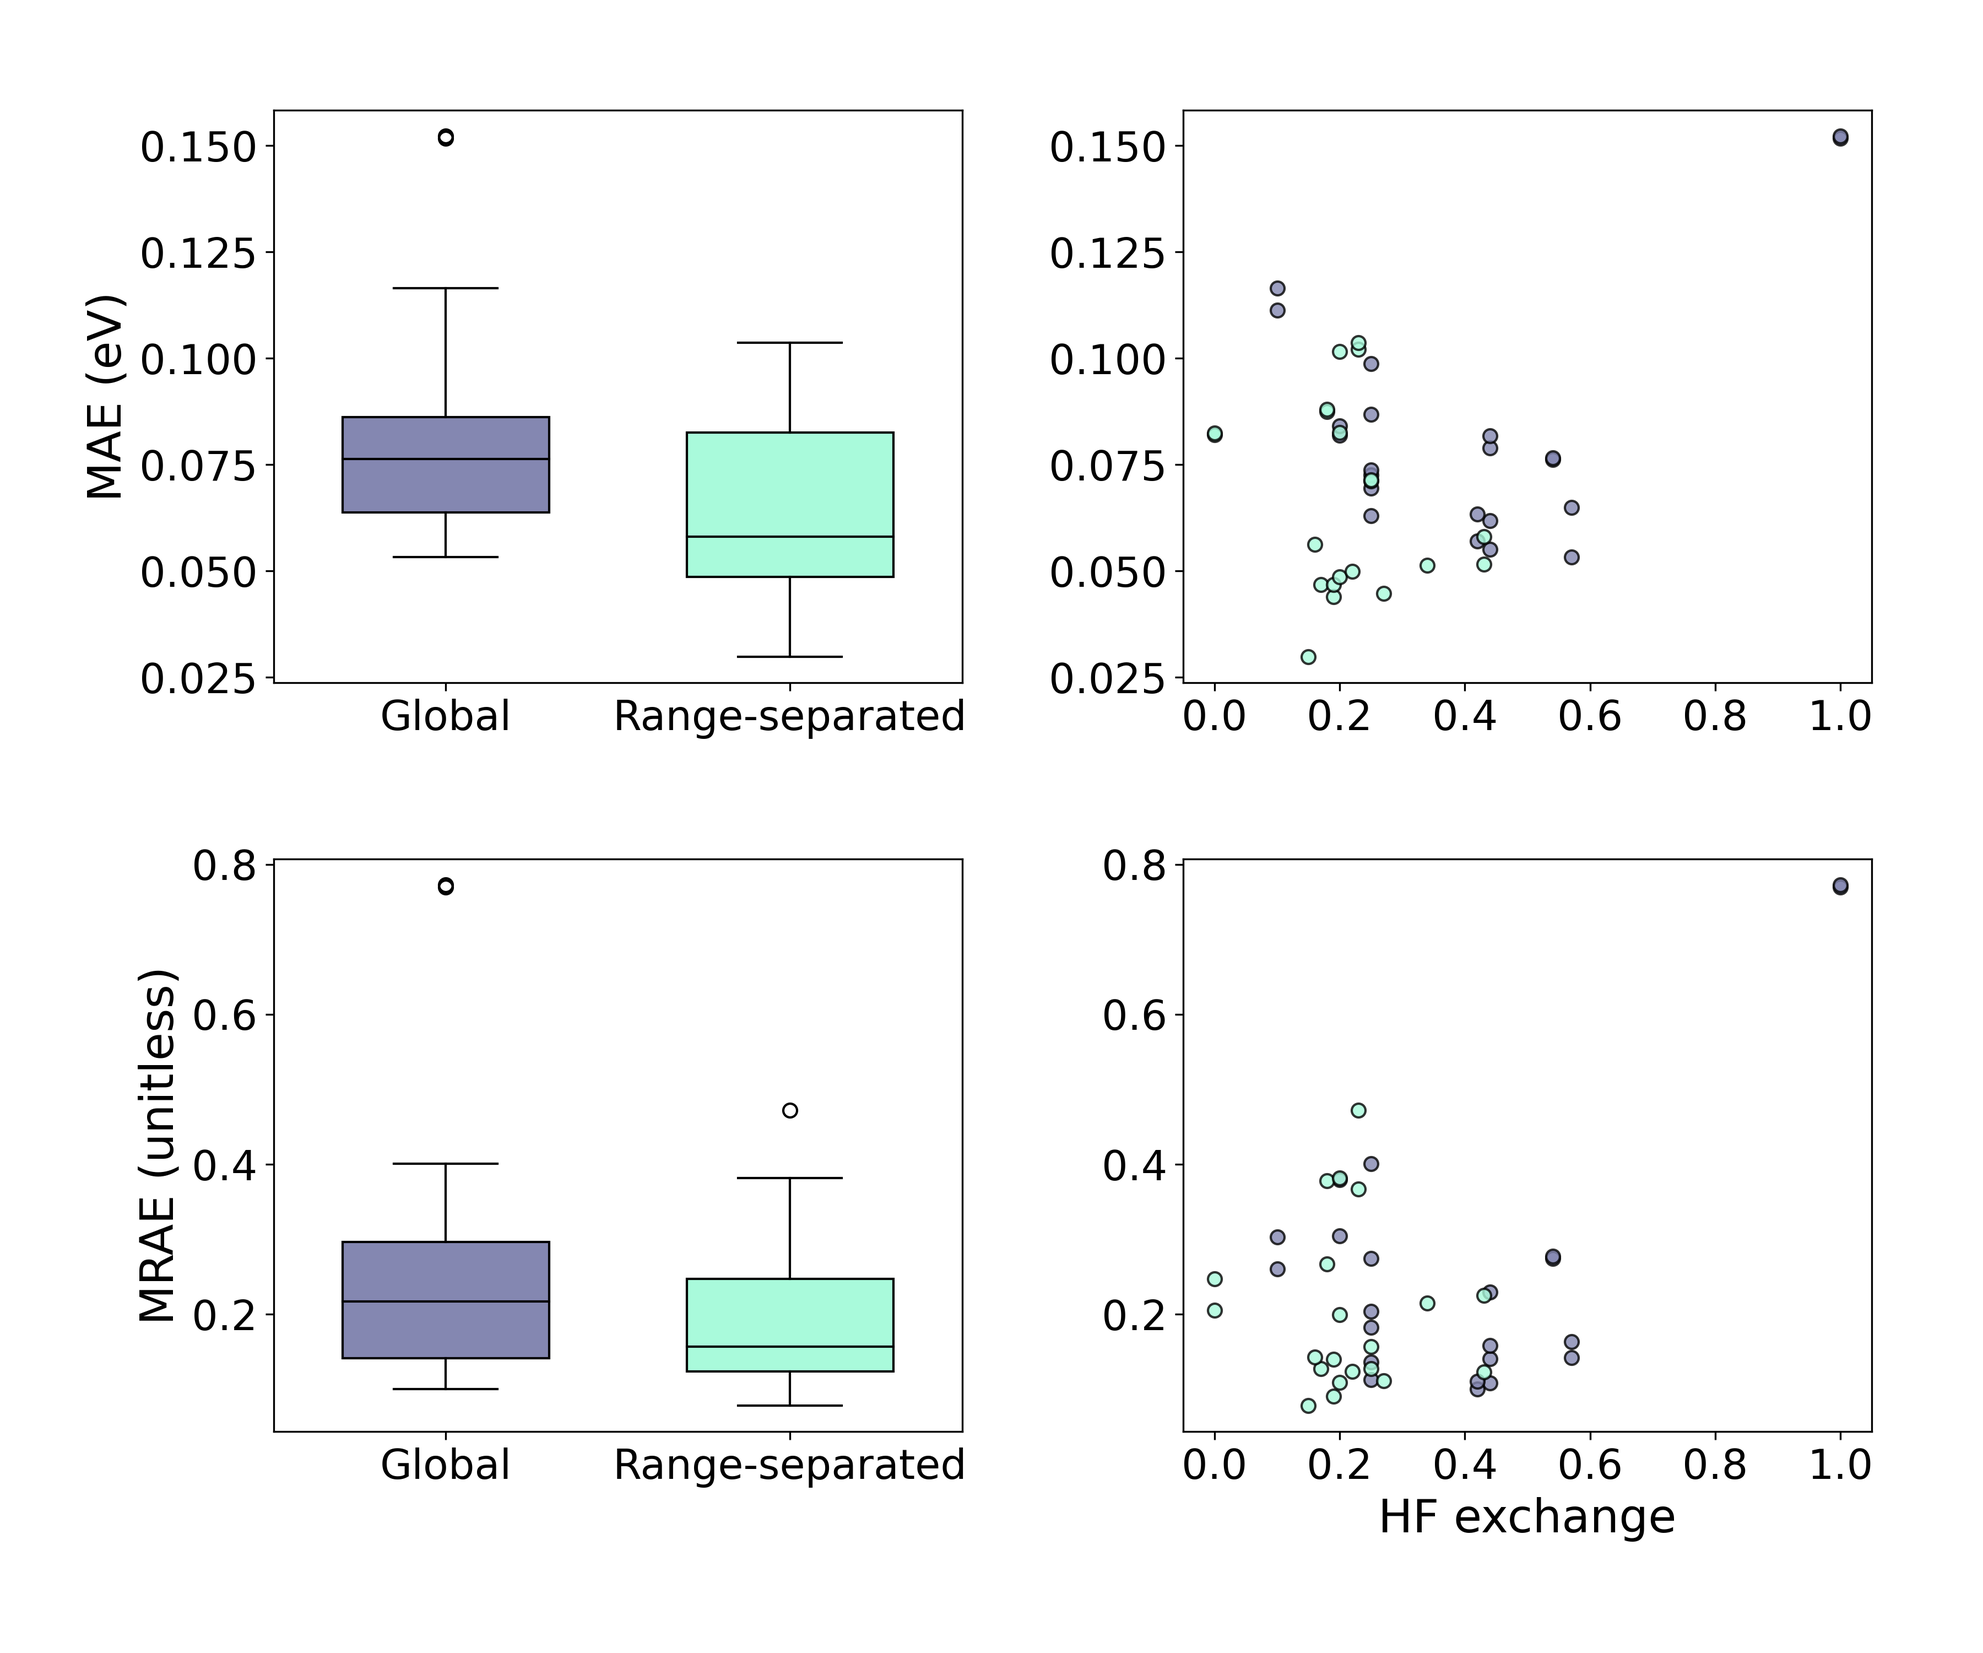
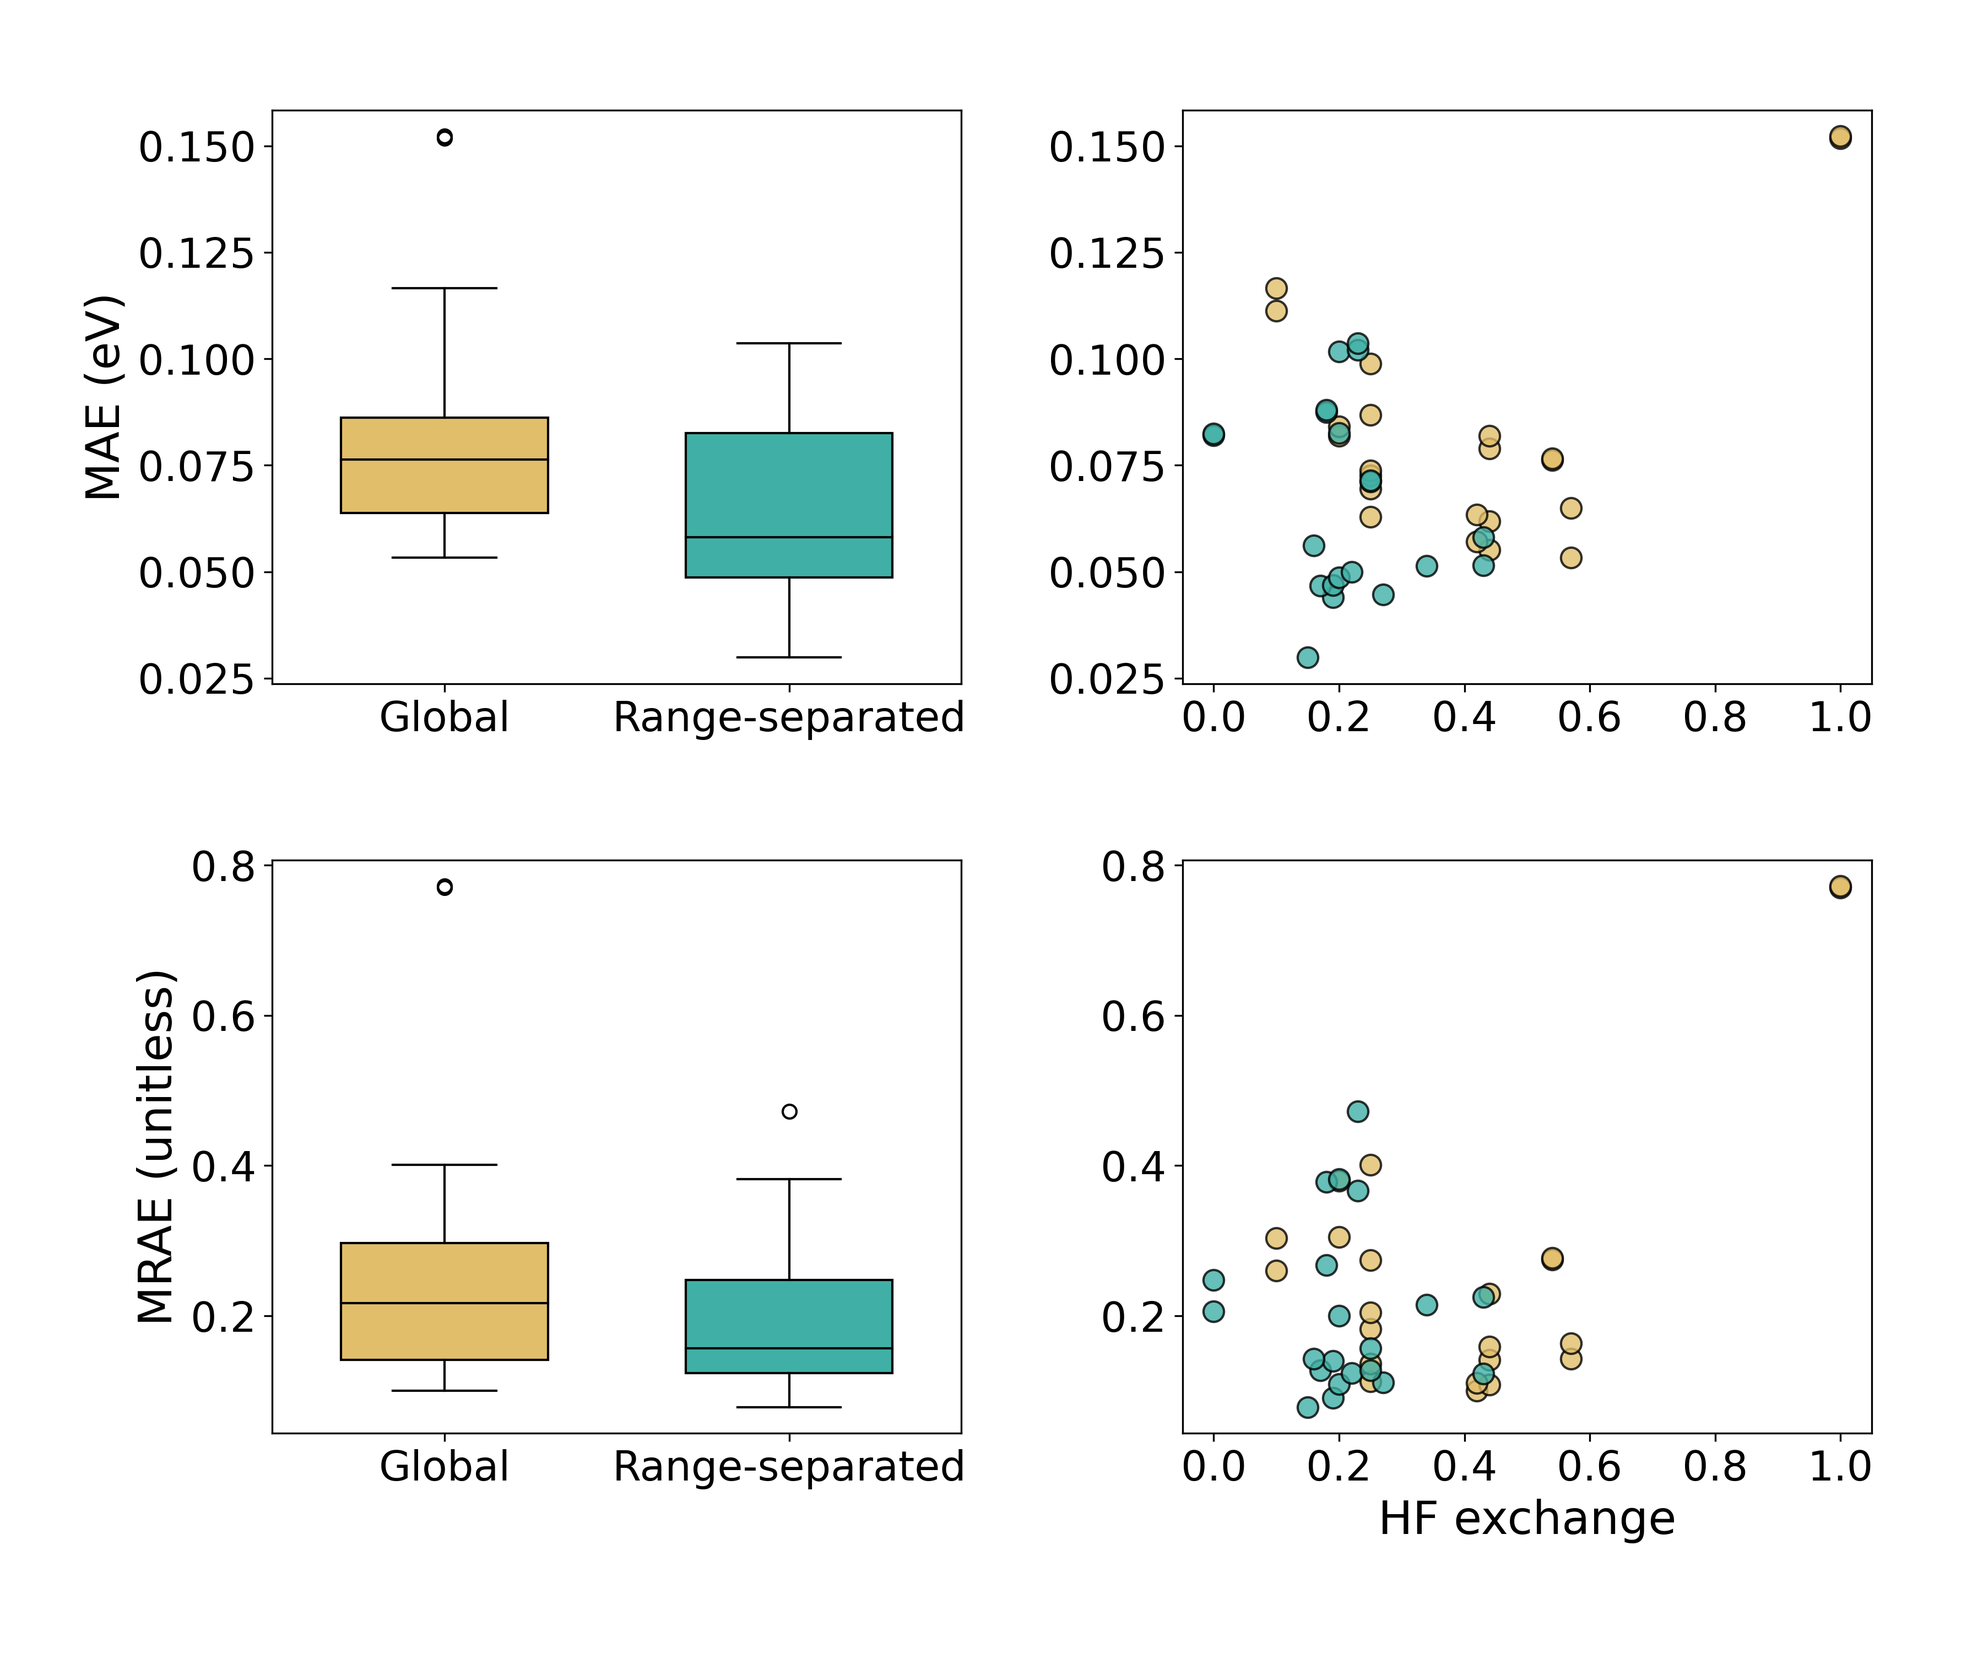
Mostly figure changes

diff --git a/src/analyze/error_by_reaction.py b/src/analyze/error_by_reaction.py
@@ -1,0 +1,102 @@
+import os
+import statistics
+
+abs_file = "../data/results/new/abserrs_vacuum.csv"
+rel_file = "../data/results/new/abserrs_rel_vacuum.csv"
+
+methods = {"GGA": ["PBE", "PBE-D3(BJ)", "BLYP", "BLYP-D3(BJ)", "B97-D", "B97-D3", "mPW91", "mPW91-D3(BJ)", "VV10", "rVV10",],
+           "meta-GGA": ["M06-L", "M06-L-D3(0)", "SCAN", "SCAN-D3(BJ)", "TPSS", "TPSS-D3(BJ)", "MN12-L", ("MN12-L-D3(BJ)"), "B97M-rV",],
+           "hybrid GGA": ["PBE0", "PBE0-D3(BJ)", "LRC-wPBE", "LRC-wPBE-D3(BJ)", "LRC-wPBEh", "LRC-wPBEh-D3(BJ)", "B3LYP", "B3LYP-D3(BJ)", "CAM-B3LYP", "CAM-B3LYP-D3(0)", "rCAM-B3LYP", "rCAM-B3LYP-D3(0)", "mPW1PW91", "mPW1PW91-D3(BJ)", "HSE-HJS", "HSE-HJS-D3(BJ)", "wB97X", "wB97XD", "wB97XD3", "wB97XV",],
+           "hybrid meta-GGA": ["M06-2X", "M06-2X-D3(0)", "wM06-D3", "M06-SX", "M06-SX-D3(BJ)", "M06-HF", "M06-HF-D3(0)", "M08-SO", "M08-SO-D3(0)", "M11", "M11-D3(0)", "revM11", "revM11-D3(0)", "MN15", "MN15-D3(0)", "BMK", "BMK-D3(BJ)", "TPSSh", "TPSSh-D3(BJ)", "SCAN0", "SCAN0-D3(BJ)", "mPWB1K", "mPWB1K-D3(BJ)", "wB97M-V"]}
+
+with open(abs_file, 'r') as file:
+    file_contents = file.readlines()
+    reactions = file_contents[0].split(",")[1:-1]
+
+    data = dict()
+
+    for reaction in reactions:
+        data[reaction] = {"all": list()}
+        for funct_class in methods:
+            data[reaction][funct_class] = list()
+
+    for line in file_contents[1:]:
+        line_contents = line.split(",")
+        functional = line_contents[0]
+
+        if functional in ["r2SCAN3c"]:
+            continue
+
+        this_class = None
+        for funct_class, functs in methods.items():
+            if functional in functs:
+                this_class = funct_class
+                break
+        if this_class is None:
+            print("CANNOT FIND FUNCTIONAL CLASS", functional)
+            continue
+
+        errors = list()
+        for x in line_contents[1:-1]:
+            try:
+                errors.append(float(x))
+            except:
+                errors.append(None)
+
+        for ii, reaction in enumerate(reactions):
+            error = errors[ii]
+            data[reaction]["all"].append(error)
+            data[reaction][this_class].append(error)
+
+    for reaction, d in data.items():
+        if None in d["all"]:
+            continue
+
+        print(f"{reaction} & {statistics.mean(d['GGA']):.3f} & {statistics.mean(d['meta-GGA']):.3f} & {statistics.mean(d['hybrid GGA']):.3f} & {statistics.mean(d['hybrid meta-GGA']):.3f} & {statistics.mean(d['all']):.3f}\\\\\n\\hline")
+
+print("\n\n\n")
+
+with open(rel_file, 'r') as file:
+    file_contents = file.readlines()
+    reactions = file_contents[0].split(",")[1:-1]
+
+    data = dict()
+
+    for reaction in reactions:
+        data[reaction] = {"all": list()}
+        for funct_class in methods:
+            data[reaction][funct_class] = list()
+
+    for line in file_contents[1:]:
+        line_contents = line.split(",")
+        functional = line_contents[0]
+
+        if functional in ["r2SCAN3c"]:
+            continue
+
+        this_class = None
+        for funct_class, functs in methods.items():
+            if functional in functs:
+                this_class = funct_class
+                break
+        if this_class is None:
+            print("CANNOT FIND FUNCTIONAL CLASS", functional)
+            continue
+
+        errors = list()
+        for x in line_contents[1:-1]:
+            try:
+                errors.append(float(x))
+            except:
+                errors.append(None)
+
+        for ii, reaction in enumerate(reactions):
+            error = errors[ii]
+            data[reaction]["all"].append(error)
+            data[reaction][this_class].append(error)
+
+    for reaction, d in data.items():
+        if None in d["all"]:
+            continue
+
+        print(f"{reaction} & {statistics.mean(d['GGA']):.3f} & {statistics.mean(d['meta-GGA']):.3f} & {statistics.mean(d['hybrid GGA']):.3f} & {statistics.mean(d['hybrid meta-GGA']):.3f} & {statistics.mean(d['all']):.3f}\\\\\n\\hline")

diff --git a/src/figures/scatter_eq_axes.py b/src/figures/scatter_eq_axes.py
@@ -6,6 +6,7 @@ import statistics
 import numpy as np
 
 import matplotlib.pyplot as plt
+from matplotlib.ticker import FormatStrFormatter
 
 SMALL_SIZE = 16
 MEDIUM_SIZE = 18
@@ -80,8 +81,19 @@ with open(os.path.join(dg_dir, "abserrs_rel_vacuum.csv")) as file:
 
 fig, ax = plt.subplots(1, 2, figsize=(12, 6))
 
-xs0 = np.linspace(0.02, 0.23, 100)
+xs0 = np.linspace(0.00, 0.25, 100)
 ax[0].plot(xs0, xs0, '--k')
+ax[0].set_xlim(0, 0.25)
+ax[0].set_ylim(0, 0.25)
+ax[0].fill_between(xs0, xs0 * 1.5, xs0 * 2, color="#DCDCDC")
+ax[0].fill_between(xs0, xs0 / 2, xs0 / 1.5, color="#DCDCDC")
+ax[0].fill_between(xs0, xs0 * 2, xs0 * 3, color="#C0C0C0")
+ax[0].fill_between(xs0, xs0 / 3, xs0 / 2, color="#C0C0C0")
+ax[0].fill_between(xs0, xs0 * 3, xs0 * 5, color="#808080")
+ax[0].fill_between(xs0, xs0 / 5, xs0 / 3, color="#808080")
+ax[0].fill_between(xs0, xs0 * 5, 0.3, color="#696969")
+ax[0].fill_between(xs0, -0.1, xs0 / 5, color="#696969")
+
 
 for group, functionals in methods.items():
     print(group)
@@ -94,7 +106,7 @@ for group, functionals in methods.items():
         xs.append(data["dg"])
         ys.append(data["barrier"])
     
-    ax[0].scatter(xs, ys, color=color, alpha=0.7, label=group)
+    ax[0].scatter(xs, ys, color=color, alpha=0.8, edgecolors="black", s=80, label=group)
 
 ax[0].set_xlabel(r"MAE$_{\Delta E}$ (eV)")
 ax[0].set_ylabel(r"MAE$_{\Delta E^‡}$ (eV)")
@@ -103,8 +115,19 @@ ax[0].set_aspect("equal", "box")
 print()
 print()
 
-xs1 = np.linspace(0.05, 0.9, 100)
+xs1 = np.linspace(0.00, 0.9, 100)
 ax[1].plot(xs1, xs1, '--k')
+ax[1].set_xlim(0, 0.9)
+ax[1].set_ylim(0, 0.9)
+ax[1].fill_between(xs1, xs1 * 1.5, xs1 * 2, color="#DCDCDC")
+ax[1].fill_between(xs1, xs1 / 2, xs1 / 1.5, color="#DCDCDC")
+ax[1].fill_between(xs1, xs1 * 2, xs1 * 3, color="#C0C0C0")
+ax[1].fill_between(xs1, xs1 / 3, xs1 / 2, color="#C0C0C0")
+ax[1].fill_between(xs1, xs1 * 3, xs1 * 5, color="#808080")
+ax[1].fill_between(xs1, xs1 / 5, xs1 / 3, color="#808080")
+ax[1].fill_between(xs1, xs1 * 5, 1.0, color="#696969")
+ax[1].fill_between(xs1, -0.1, xs1 / 5, color="#696969")
+
 
 for group, functionals in methods.items():
     print(group)
@@ -116,14 +139,20 @@ for group, functionals in methods.items():
         print("\t", f, data)
         xs.append(data["dg"])
         ys.append(data["barrier"])
-    
-    ax[1].scatter(xs, ys, color=color, alpha=0.7, label=group)
+
+    ax[1].scatter(xs, ys, color=color, alpha=0.8, edgecolors="black", s=80, label=group)
 
 ax[1].set_xlabel(r"MRAE$_{\Delta E}$ (unitless)")
 ax[1].set_ylabel(r"MRAE$_{\Delta E^‡}$ (unitless)")
 ax[1].set_aspect("equal", "box")
 
+ax[0].xaxis.set_major_formatter(FormatStrFormatter('%.2f'))
+ax[1].xaxis.set_major_formatter(FormatStrFormatter('%.2f'))
+
+ax[0].yaxis.set_major_formatter(FormatStrFormatter('%.2f'))
+ax[1].yaxis.set_major_formatter(FormatStrFormatter('%.2f'))
+
 # ax[1].legend()
 plt.tight_layout()
 fig.savefig("dg_vs_dgdag_eq.png", dpi=300)
-# plt.show()
+plt.show()

diff --git a/src/figures/hf_exchange.py b/src/figures/hf_exchange.py
@@ -66,7 +66,7 @@ plt.rc('ytick', labelsize=MEDIUM_SIZE)    # fontsize of the tick labels
 
 base_dir = "../data/results/new"
 
-colors = {"global": "#8487B1", "range-separated": "#A9FADB"}
+colors = {"global": "#E1BE6A", "range-separated": "#40B0A6"}
 
 vac_mae = {x: dict() for x in hybrid}
 vac_rel = {x: dict() for x in hybrid}
@@ -183,6 +183,41 @@ for i, dset in enumerate([vac_mae, vac_rel]):
         rsx.append(hybrid["range-separated"][funct])
         rsy.append(dset["range-separated"][funct])
 
+    global_values = np.array(list(dset["global"].values()))
+    rs_values = np.array(list(dset["range-separated"].values()))
+
+    q1_global = np.quantile(global_values, 0.25)
+    q3_global = np.quantile(global_values, 0.75)
+    med_global = np.median(global_values)
+    iqr_global = q3_global - q1_global
+    upper_bound_global = q3_global + (1.5 * iqr_global)
+    lower_bound_global = q1_global - (1.5 * iqr_global)
+
+    outliers_global = list()
+    for n, v in dset["global"].items():
+        if v <= lower_bound_global or v >= upper_bound_global:
+            outliers_global.append((n, v))
+
+    q1_rs = np.quantile(rs_values, 0.25)
+    q3_rs = np.quantile(rs_values, 0.75)
+    med_rs = np.median(rs_values)
+    iqr_rs = q3_rs - q1_rs
+    upper_bound_rs = q3_rs + (1.5 * iqr_rs)
+    lower_bound_rs = q1_rs - (1.5 * iqr_rs)
+
+    outliers_rs = list()
+    for n, v in dset["range-separated"].items():
+        if v <= lower_bound_rs or v >= upper_bound_rs:
+            outliers_rs.append((n, v))
+
+    print("GLOBAL")
+    for x in outliers_global:
+        print(x)
+    print("\n\nRANGE-SEPARATED")
+    for x in outliers_rs:
+        print(x)
+    print("\n\n")
+
     bp = bax.boxplot([sorted(list(dset["global"].values())),
                       sorted(list(dset["range-separated"].values()))],
                      labels=["Global", "Range-separated"],
@@ -207,8 +242,8 @@ for i, dset in enumerate([vac_mae, vac_rel]):
     # if i == 0:
     #     ax.plot(fitx, fity, c="black")
 
-    ax.scatter(gx, gy, c=colors["global"], edgecolors="black", alpha=0.8)
-    ax.scatter(rsx, rsy, c=colors["range-separated"], edgecolors="black", alpha=0.8)
+    ax.scatter(gx, gy, c=colors["global"], edgecolors="black", alpha=0.8, s=80)
+    ax.scatter(rsx, rsy, c=colors["range-separated"], edgecolors="black", alpha=0.8, s=80)
 
     ax.set_xticks([0.0, 0.2, 0.4, 0.6, 0.8, 1.0])
 

diff --git a/src/analyze/reference_values.py b/src/analyze/reference_values.py
@@ -1,0 +1,27 @@
+from monty.serialization import loadfn
+
+data = loadfn("../data/dft/new/dft_compiled_data.json")
+
+sorted_rxns = sorted(list(data.keys()))
+
+print("vacuum")
+for r in sorted_rxns:
+    d = data[r]
+    if not any([x is None for x in d["vacuum"].get("reference", {"x": None}).values()]):
+        for_barrier = (d["vacuum"]["reference"]["ts"] - d["vacuum"]["reference"]["rct"]) * 27.2114
+        rev_barrier = (d["vacuum"]["reference"]["ts"] - d["vacuum"]["reference"]["pro"]) * 27.2114
+        dg = (d["vacuum"]["reference"]["pro"] - d["vacuum"]["reference"]["rct"]) * 27.2114
+        print(f"{r} & forward & {for_barrier:.3f} & {dg:.3f}\\\\\n\\hline")
+        print(f"{r} & reverse & {rev_barrier:.3f} & {-1 * dg:.3f}\\\\\n\\hline")
+
+print("\n\n\n")
+print("IEF-PCM")
+
+for r in sorted_rxns:
+    d = data[r]
+    if not any([x is None for x in d["IEF-PCM"].get("reference", {"x": None}).values()]):
+        for_barrier = (d["IEF-PCM"]["reference"]["ts"] - d["IEF-PCM"]["reference"]["rct"]) * 27.2114
+        rev_barrier = (d["IEF-PCM"]["reference"]["ts"] - d["IEF-PCM"]["reference"]["pro"]) * 27.2114
+        dg = (d["IEF-PCM"]["reference"]["pro"] - d["IEF-PCM"]["reference"]["rct"]) * 27.2114
+        print(f"{r} & forward & {for_barrier:.3f} & {dg:.3f}\\\\\n\\hline")
+        print(f"{r} & reverse & {rev_barrier:.3f} & {-1 * dg:.3f}\\\\\n\\hline")

diff --git a/src/figures/performance_classes.py b/src/figures/performance_classes.py
@@ -55,8 +55,8 @@ with open(os.path.join(base_dir, "abserrs_rel_vacuum.csv")) as file:
         funct = row[0]
         avg = float(row[-1])
 
-        if funct == "M06-HF" or funct == "M06-HF-D3(0)":            
-            continue                                         
+        # if funct == "M06-HF" or funct == "M06-HF-D3(0)":            
+        #     continue                                         
 
         for group, functs in methods.items():
             if funct in functs:
@@ -120,8 +120,8 @@ for i, dset in enumerate([vac_mae, vac_rel]):
         avgs.append(avg)
         group_sort = sorted(dset[group].items(), key=lambda x: x[1])
         print("\t min: {} ({}) max: {} ({}) avg: {}".format(group_sort[0][0], group_sort[0][1],
-                                                    group_sort[-1][0], group_sort[-1][1],
-                                                        avg))
+                                                            group_sort[-1][0], group_sort[-1][1],
+                                                            avg))
         lowlims.append(abs(avg - group_sort[0][1]))
         uplims.append(abs(avg - group_sort[-1][1]))
 
@@ -142,4 +142,4 @@ for i, dset in enumerate([vac_mae, vac_rel]):
 
 plt.tight_layout()
 # fig.savefig("performance_classes_main.png", dpi=300)
-# plt.show()
+plt.show()

diff --git a/src/figures/dg_vs_dgbar.py b/src/figures/dg_vs_dgbar.py
@@ -80,8 +80,10 @@ with open(os.path.join(dg_dir, "abserrs_rel_vacuum.csv")) as file:
 
 fig, ax = plt.subplots(2, 1, figsize=(8, 10))
 
-xs0 = np.linspace(0.02, 0.23, 100)
+xs0 = np.linspace(0.00, 0.25, 100)
 ax[0].plot(xs0, xs0, '--k')
+ax[0].set_xlim(0, 0.25)
+ax[0].set_ylim(0, 0.25)
 
 for group, functionals in methods.items():
     print(group)
@@ -102,8 +104,11 @@ ax[0].set_ylabel(r"MAE$_{\Delta E^‡}$ (eV)")
 print()
 print()
 
-xs1 = np.linspace(0.05, 0.9, 100)
+xs1 = np.linspace(0.00, 0.9, 100)
+ax[1].set_xlim(0, 0.9)
+ax[1].set_ylim(0, 0.9)
 ax[1].plot(xs1, xs1, '--k')
+
 
 for group, functionals in methods.items():
     print(group)
@@ -115,7 +120,7 @@ for group, functionals in methods.items():
         print("\t", f, data)
         xs.append(data["dg"])
         ys.append(data["barrier"])
-    
+
     ax[1].scatter(xs, ys, color=color, alpha=0.7, label=group)
 
 ax[1].set_xlabel(r"MRAE$_{\Delta E}$ (unitless)")
@@ -123,5 +128,5 @@ ax[1].set_ylabel(r"MRAE$_{\Delta E^‡}$ (unitless)")
 
 # ax[1].legend()
 plt.tight_layout()
-fig.savefig("dg_vs_dgdag.png", dpi=300)
-# plt.show()
+# fig.savefig("dg_vs_dgdag.png", dpi=300)
+plt.show()

diff --git a/src/figures/dispersion_v3.py b/src/figures/dispersion_v3.py
@@ -143,9 +143,9 @@ for i, dset in enumerate([vac_mae, vac_rel]):
         ax.set_xticks([0.05, 0.1, 0.15, 0.2])
 
     for group in methods:
-        ax.scatter(xs["D2"][group], ys["D2"][group], c=colors[group], edgecolors="black", alpha=0.8, label=f"{group}-D2", s=60, marker=shapes["D2"])
-        ax.scatter(xs["D3"][group], ys["D3"][group], c=colors[group], edgecolors="black", alpha=0.8, label=f"{group}-D3", s=60, marker=shapes["D3"])
-        ax.scatter(xs["VV10"][group], ys["VV10"][group], c=colors[group], edgecolors="black", alpha=0.8, label=f"{group}-VV10", s=60, marker=shapes["VV10"])
+        ax.scatter(xs["D2"][group], ys["D2"][group], c=colors[group], edgecolors="black", alpha=0.8, label=f"{group}-D2", s=80, marker=shapes["D2"])
+        ax.scatter(xs["D3"][group], ys["D3"][group], c=colors[group], edgecolors="black", alpha=0.8, label=f"{group}-D3", s=80, marker=shapes["D3"])
+        ax.scatter(xs["VV10"][group], ys["VV10"][group], c=colors[group], edgecolors="black", alpha=0.8, label=f"{group}-VV10", s=80, marker=shapes["VV10"])
 
 plt.tight_layout()
 # plt.legend()
